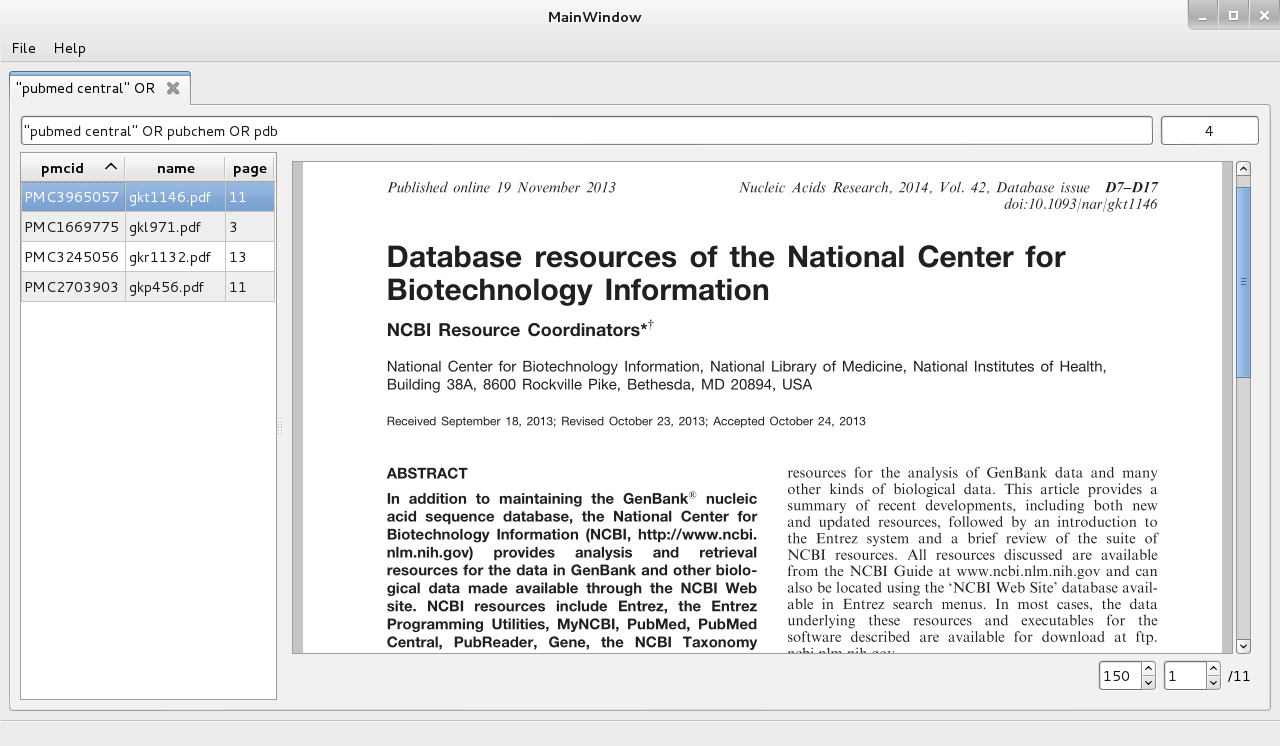
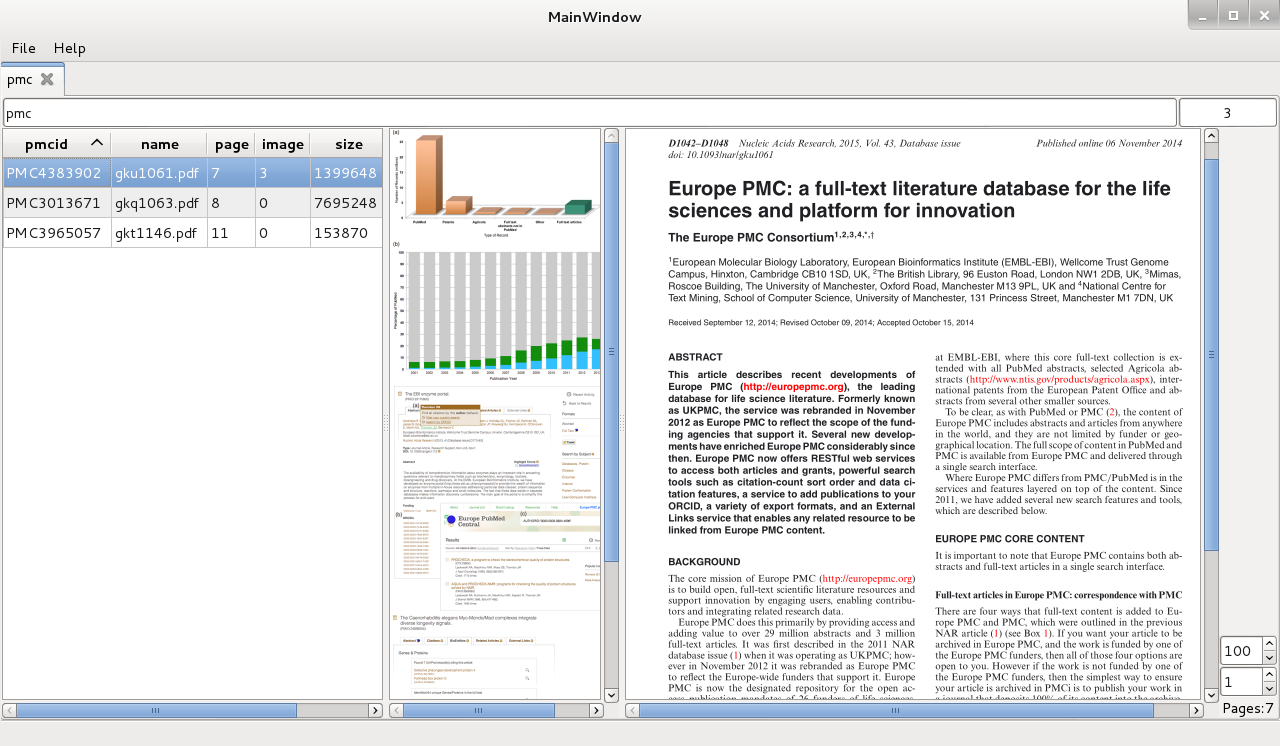
images

Changed region(s): [[0.0, 0.0617, 1.0, 0.9866]]

diff --git a/src/gui/FormViewer.cpp b/src/gui/FormViewer.cpp
@@ -43,6 +43,7 @@ void FormViewer::createUi(){
     lbl->setSizePolicy(QSizePolicy::Ignored, QSizePolicy::Ignored);
     lbl->setScaledContents(true);
     page = new QLabel(this);
+    page->setAlignment(Qt::AlignHCenter);
 	scroll = new QScrollArea(this);
 	scroll->setAlignment(Qt::AlignCenter);
 	scroll->setBackgroundRole(QPalette::Dark);
@@ -60,35 +61,67 @@ void FormViewer::createUi(){
 	slideP->setValue(0);
 	slideP->setSingleStep(0);
 	slideP->setWrapping(true);
-	QHBoxLayout *bl = new QHBoxLayout();
+
+	QVBoxLayout *bl = new QVBoxLayout();
 	bl->addStretch(0);
+	bl->setSpacing(0);
+	bl->setContentsMargins(0,0,0,0);
 	bl->addWidget(slideZ);
 	bl->addWidget(slideP);
 	bl->addWidget(page);
-	QVBoxLayout *layout = new QVBoxLayout();
+
+	list = new QListWidget(this);
+	list->setViewMode(QListWidget::IconMode);
+	list->setIconSize(QSize(250,250));
+	list->setResizeMode(QListWidget::Adjust);
+	list->setFlow(QListView::TopToBottom);
+	list->setWrapping(false);
+
+	QHBoxLayout *layout = new QHBoxLayout();
 	layout->setSpacing(0);
 	layout->setContentsMargins(0,0,0,0);
-	layout->addWidget(scroll);
-	layout->addLayout(bl);
-    setLayout(layout);
+	layout->addWidget(scroll, 1);
+	layout->addLayout(bl, 0);
+
+	QWidget* w = new QWidget(this);
+	w->setLayout(layout);
+
+	QSizePolicy p = w->sizePolicy();
+	p.setHorizontalStretch(1);
+	w->setSizePolicy(p);
+
+	QSplitter* sp = new QSplitter(this);
+	sp->addWidget(list);
+	sp->addWidget(w);
+
+	QVBoxLayout *layout1 = new QVBoxLayout(this);
+	layout1->setSpacing(0);
+	layout1->setContentsMargins(0,0,0,0);
+	layout1->addWidget(sp);
+
+    setLayout(layout1);
 }
 
 void FormViewer::connectSlots(){
 
 }
 
-
-void FormViewer::setImage(const QImage* image){
+void FormViewer::setPage(const QImage* image){
 	lbl->setPixmap(QPixmap::fromImage(*image));
 	lbl->adjustSize();
 }
 
+void FormViewer::setImage(const QImage* image){
+	list->addItem(new QListWidgetItem(QIcon(QPixmap::fromImage(*image)), 0));
+}
+
 void FormViewer::loadDoc(const QString& i){
+	list->clear();
 	pdf.reset(new Doc());
 	try {
 		db->getDoc(*pdf.data(),i);
 		name = pdf->getName();
-		connect(pdf.data(), SIGNAL(newImage(const QImage*)), this, SLOT(setImage(const QImage*)));
+		connect(pdf.data(), SIGNAL(newPage(const QImage*)), this, SLOT(setPage(const QImage*)));
 		connect(slideZ, SIGNAL(valueChanged(int)), pdf.data(), SLOT(setZoom(int)));
 		pdf->setZoom(slideZ->value());
 		slideP->setMinimum(1);
@@ -96,7 +129,9 @@ void FormViewer::loadDoc(const QString& i){
 		slideP->setValue(1);
 		slideP->setSingleStep(1);
 		connect(slideP, SIGNAL(valueChanged(int)), pdf.data(), SLOT(loadPage(int)));
-		page->setText("/"+QString::number(pdf->getPageCount()));
+		page->setText("Pages:"+QString::number(pdf->getPageCount()));
+		connect(pdf.data(), SIGNAL(newImage(const QImage*)), this, SLOT(setImage(const QImage*)));
+		pdf->getImages();
 	} catch (const dualword_exception& e) {
 		//
 	}

diff --git a/src/app/Doc.cpp b/src/app/Doc.cpp
@@ -46,8 +46,6 @@ void Doc::open(){
 	}fz_catch(ctx){
 		//throw dualword_exception("Couldn't open pdf:" + std::string(ctx->error->message));
     }
-
-	saveImage();
 }
 
 void Doc::loadPage(int pi){
@@ -82,7 +80,7 @@ void Doc::loadPage(int pi){
 		int w = fz_pixmap_width(ctx, pix);
 		int h = fz_pixmap_height(ctx, pix);
 		QImage image(pix->samples, w, h, QImage::Format_ARGB32);
-		emit newImage(&image);
+		emit newPage(&image);
 	}fz_always(ctx)	{
 		fz_drop_pixmap(ctx, pix);
 		fz_drop_page(ctx, page);
@@ -114,19 +112,16 @@ void Doc::toText(QString& s){
 			fz_drop_text_sheet(ctx, sheet);
 			fz_drop_page(ctx, page);
 		}
-		 s = tmp;
+		s = tmp;
 
 	}fz_catch(ctx){
 		//char *msg = ctx->error->message;
 	}
 }
 
-void Doc::saveImage(){
+void Doc::getImages(){
 	fz_stream* fs;
 	pdf_document *d;
-
-	ctx = fz_new_context(NULL, NULL, FZ_STORE_UNLIMITED);
-	fz_register_document_handlers(ctx);
     fz_try(ctx){
     	fs = fz_open_memory(ctx, (unsigned char *)data.constData(), data.length());
     	d = pdf_open_document_with_stream(ctx, fs);
@@ -135,14 +130,32 @@ void Doc::saveImage(){
     	for (int i = 1; i < len; i++){
     		pdf_obj *obj = pdf_load_object(ctx, d, i, 0);
     		pdf_obj *type = pdf_dict_get(ctx, obj, PDF_NAME_Subtype);
-    		if (pdf_name_eq(ctx, type, PDF_NAME_Image)) imageCount++;
+    		if (pdf_name_eq(ctx, type, PDF_NAME_Image)){
+        		fz_image *image;
+        		fz_pixmap *pix;
+        		pdf_obj *ref;
+        		char buf[32];
+        		ref = pdf_new_indirect(ctx, d, i, 0);
+        		image = pdf_load_image(ctx, d, ref);
+        		pix = fz_image_get_pixmap(ctx, image, 0, 0);
+        		fz_drop_image(ctx, image);
+        		int rgb = 0;
+        			if (!pix) continue;
+        			if (pix->n == 4) {
+            			imageCount++;
+        				int w = fz_pixmap_width(ctx, pix);
+        				int h = fz_pixmap_height(ctx, pix);
+        	    		QImage img(pix->samples, w, h, QImage::Format_ARGB32);
+        	    		emit newImage(&img);
+        			}
+        		fz_drop_pixmap(ctx, pix);
+    		}
     		pdf_drop_obj(ctx, obj);
     	}
     }fz_always(ctx)	{
     	pdf_close_document(ctx, d);
     	fz_drop_stream(ctx, fs);
 	}fz_catch(ctx){
-		//
+		//qDebug() << ctx->error->message;
     }
 }
-

diff --git a/src/app/Indexer.cpp b/src/app/Indexer.cpp
@@ -35,9 +35,11 @@ void Indexer::run(){
 		db.open();
 		while(true){
 			QScopedPointer<Doc> doc(new Doc());
-			QObject::connect(doc.data(), SIGNAL(newDoc()), mainWin->getTab(), SLOT(indexChange()), Qt::QueuedConnection);
 			if (!db.getNextDoc(*doc.data())) break;
 			emit newMsg("Indexing " + doc->getPmcid());
+			QObject::connect(doc.data(), SIGNAL(newDoc()), mainWin->getTab(), SLOT(indexChange()), Qt::QueuedConnection);
+			doc->open();
+			doc->getImages();
 			pmcApp->index()->save(*doc.data());
 			db.updateDoc(doc->getPmcid());
 			doc->emitNewDoc();

diff --git a/src/app/Doc.h b/src/app/Doc.h
@@ -35,11 +35,13 @@ public:
 	void toText(QString &);
 
 signals:
+	void newPage(const QImage*);
 	void newImage(const QImage*);
 	void newDoc();
 
 public slots:
 	void loadPage(int);
+	void getImages();
 
 	void setZoom(int z) {
 		zoom = z;
@@ -90,7 +92,6 @@ public slots:
 
 private:
 	Q_DISABLE_COPY(Doc)
-	void saveImage();
 
 	fz_context *ctx;
 	fz_document *doc;

diff --git a/src/app/FormDbConnection.cpp b/src/app/FormDbConnection.cpp
@@ -112,7 +112,6 @@ bool FormDbConnection::getNextDoc(Doc &d){
 			d.setName(query.value(1).toString());
 			d.setSize(query.value(2).toInt());
 			d.setData(query.value(3).toByteArray());
-			d.open();
 		} catch(const dualword_exception& e) {
 			query.finish();
 			return false;

diff --git a/src/gui/FormViewer.h b/src/gui/FormViewer.h
@@ -35,6 +35,7 @@ public:
 	}
 
 public slots:
+	void setPage(const QImage*);
 	void setImage(const QImage*);
 	void loadDoc(const QString& i);
 
@@ -49,6 +50,7 @@ private:
 	FormDbConnection *db;
 	QSpinBox *slideZ, *slideP;
 	QString name;
+	QListWidget* list;
 
 };
 

diff --git a/src/gui/FormTable.cpp b/src/gui/FormTable.cpp
@@ -61,6 +61,8 @@ void FormTable::createUi(){
 	sp->addWidget(view);
 
 	QVBoxLayout *layout = new QVBoxLayout(this);
+	layout->setSpacing(0);
+	layout->setContentsMargins(0,0,0,0);
 	layout->addLayout(bl);
 	layout->addWidget(sp);
 	setLayout(layout);

diff --git a/README.md b/README.md
@@ -5,6 +5,7 @@ Features:
  - PDF files are automatically stored in SQLite database
  - offline PDF viewer
  - full-text search
+ - image extraction
  
 License: GNU General Public License (Version 3)  
 Source code: http://github.com/dualword/dualword-pmc/  
